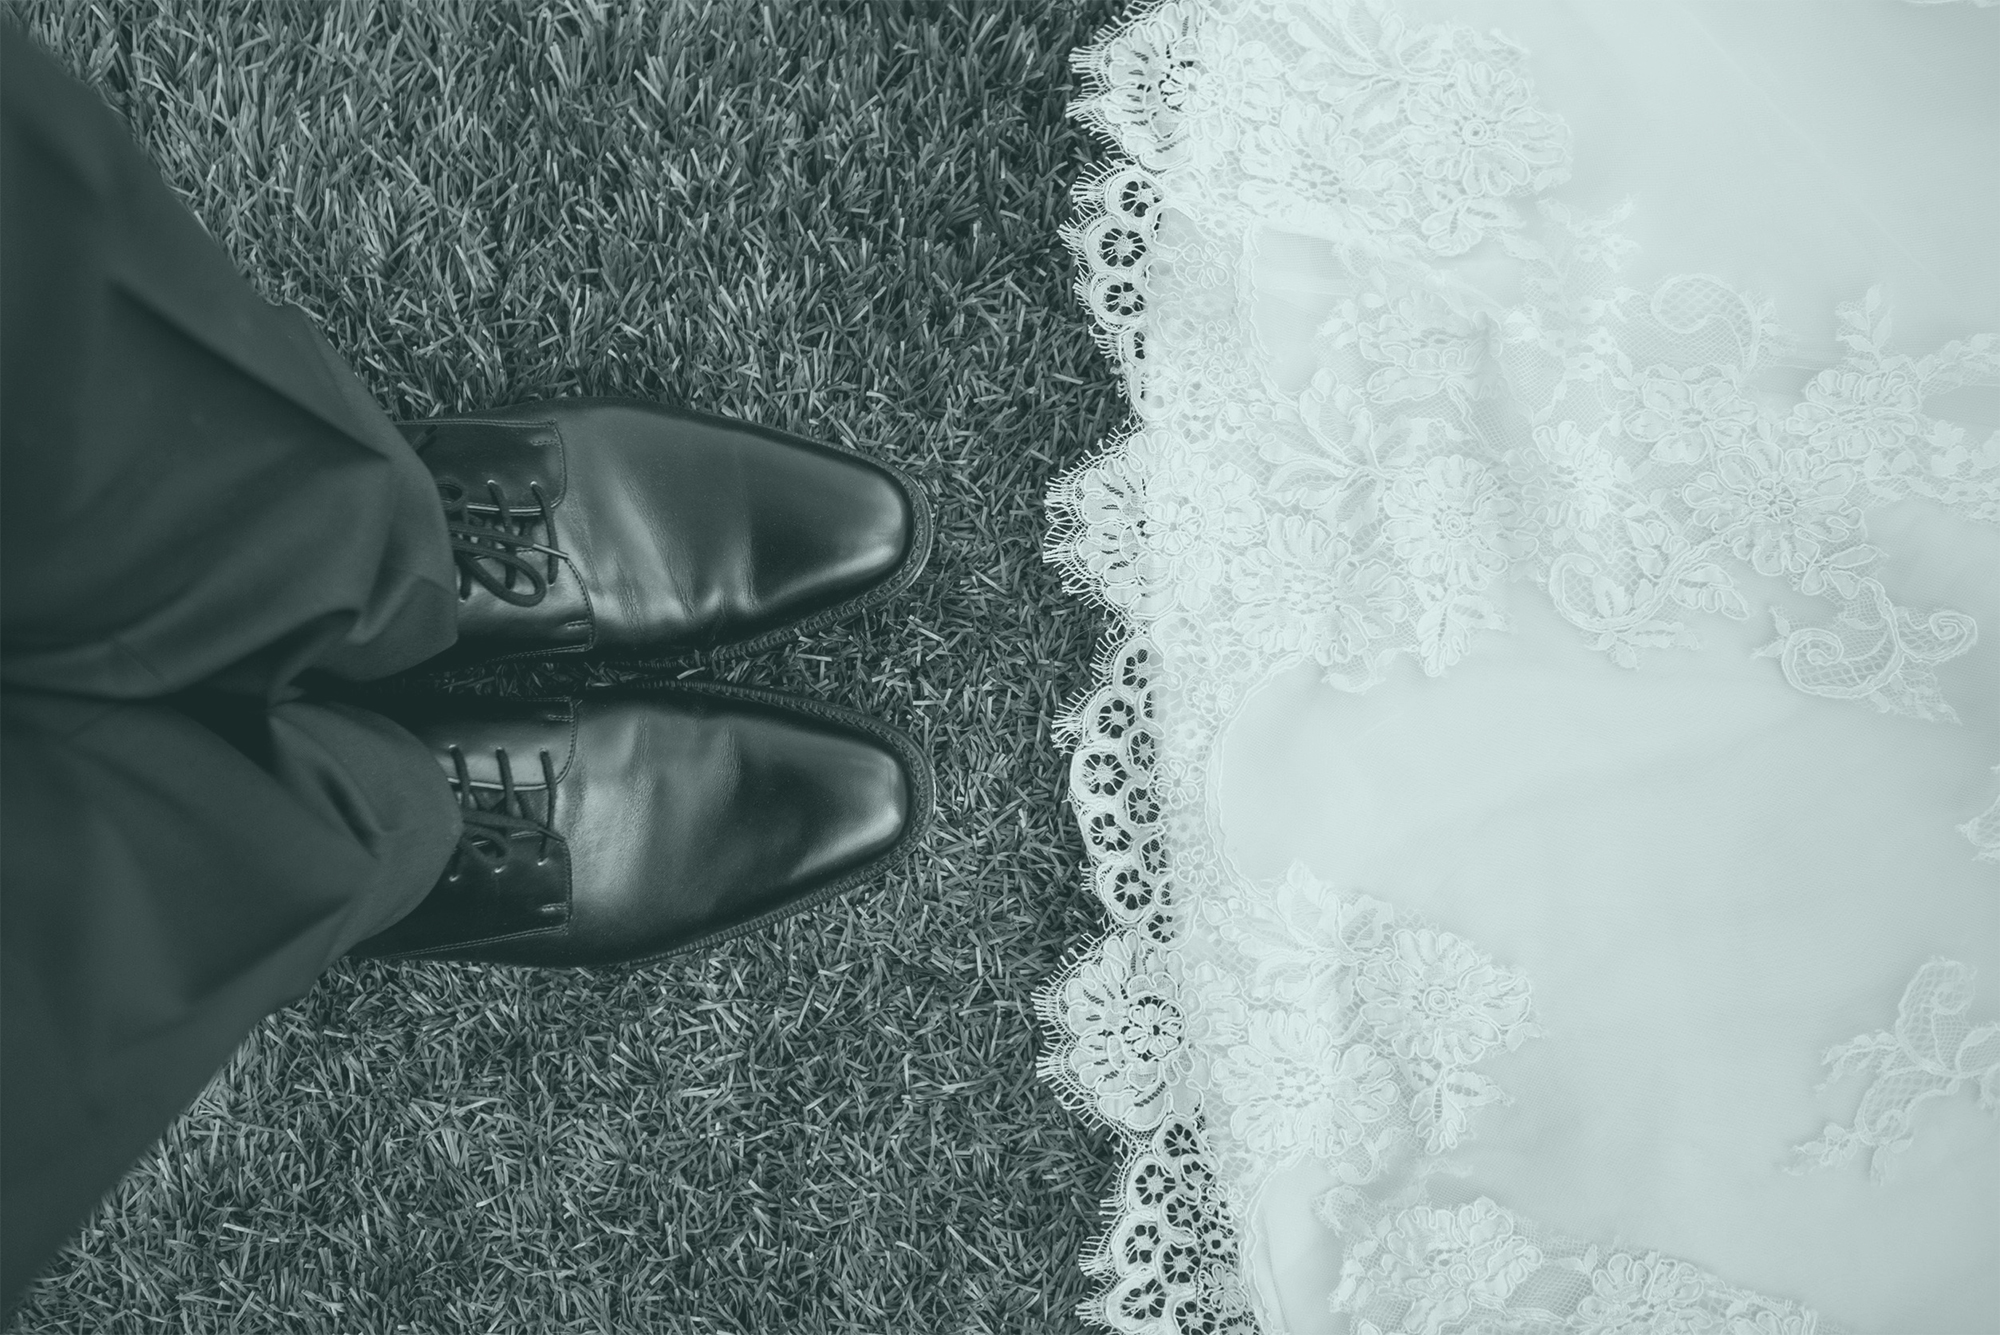
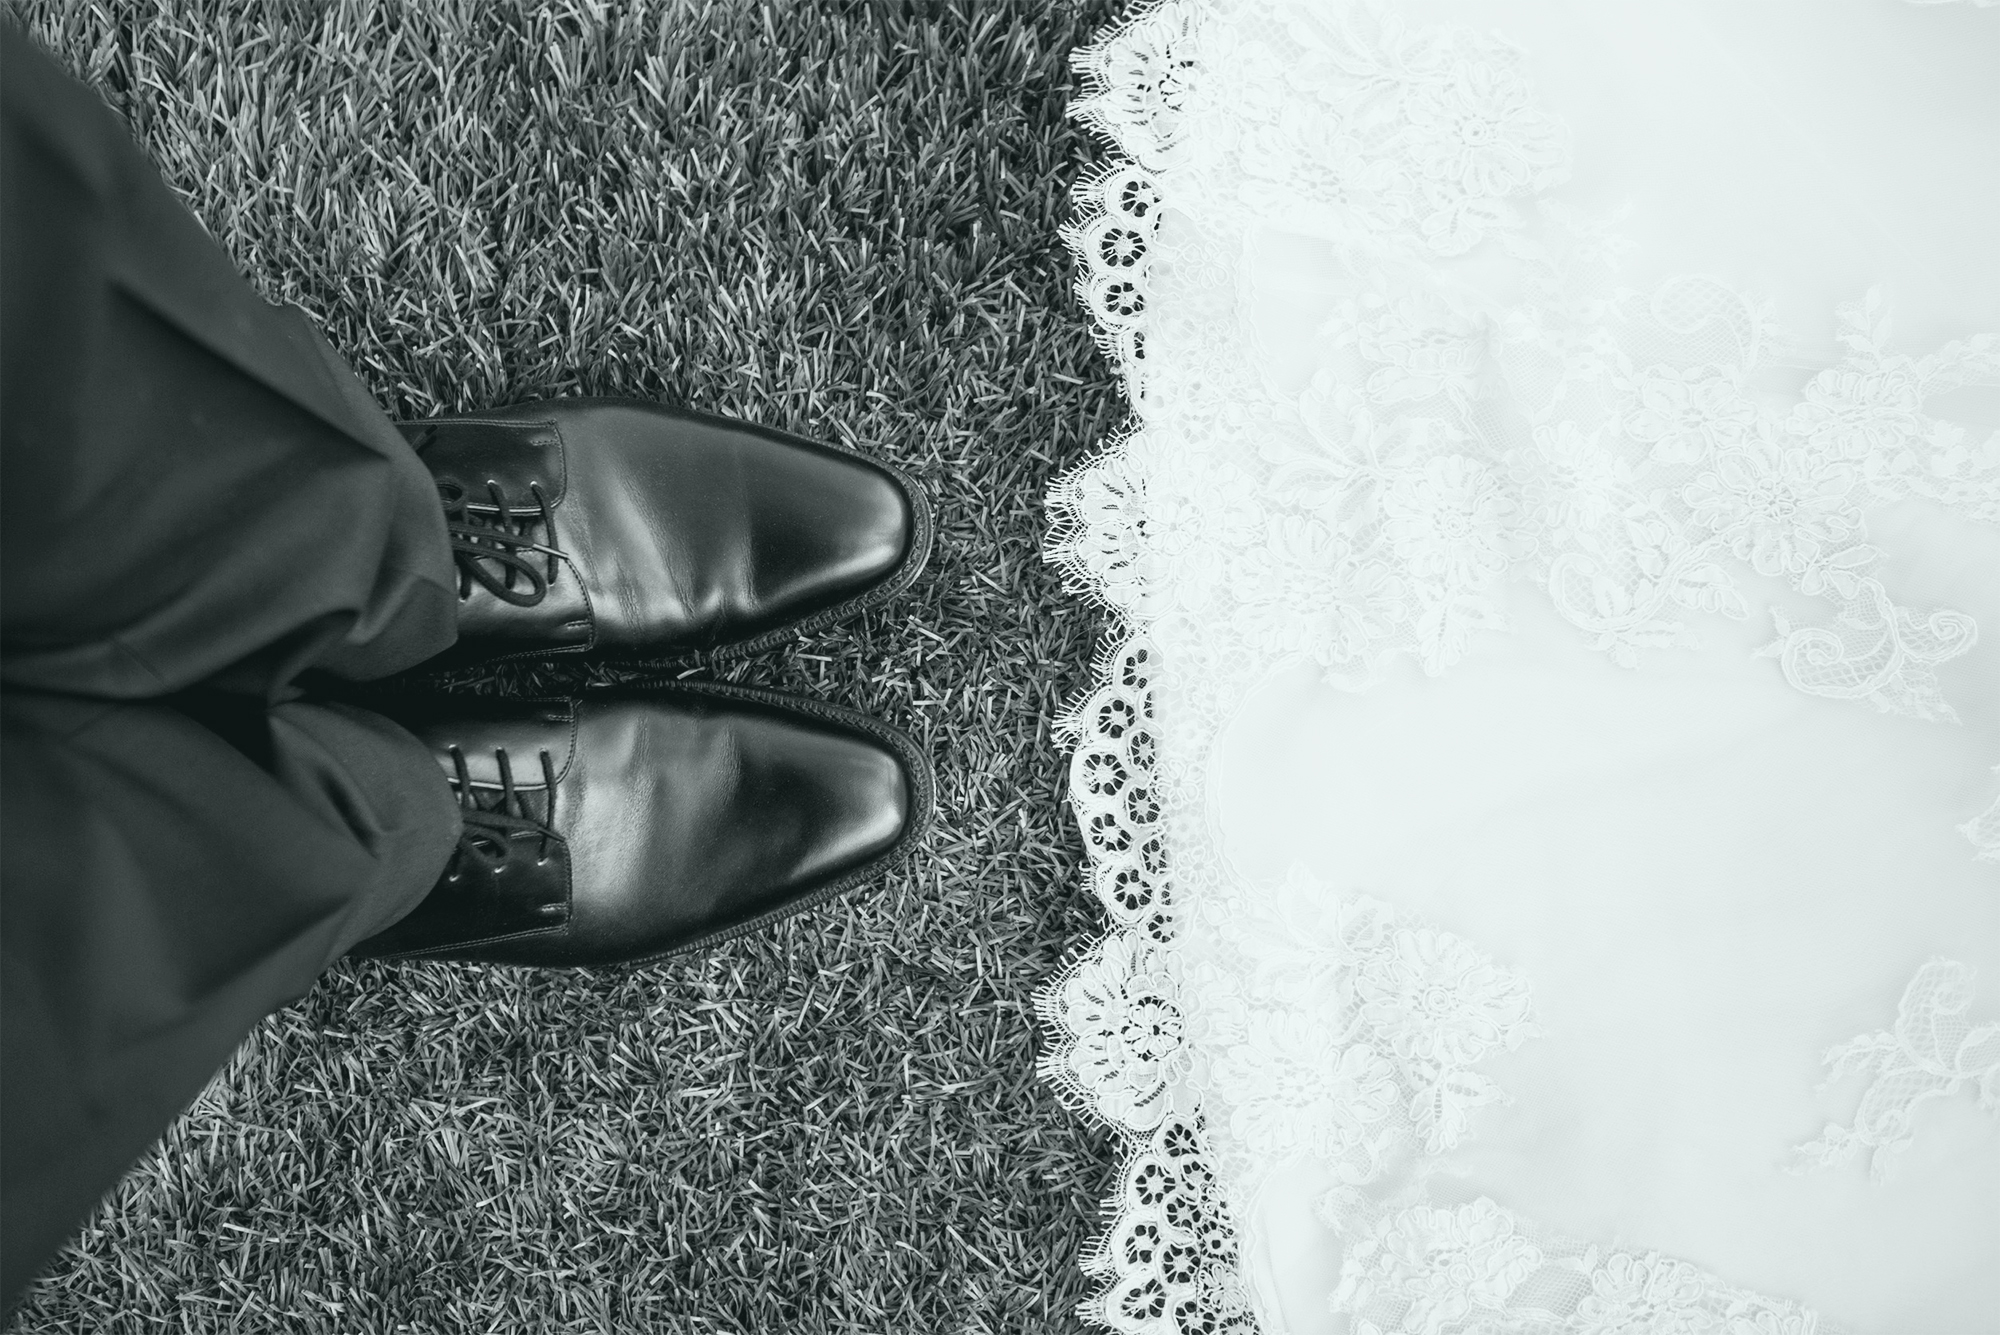
Added a white border around intro messages

diff --git a/index.html b/index.html
@@ -44,22 +44,22 @@
 <main id="main" role="main">
 	<div class="banner-img">
 		<div class="grid grid-stretch">
-			<div class="unit xs-1 s-1-2 m-2-3 l-2-3">
-				<div>
-					<h1 class="tagline"><b>Organize your wedding <i>beautifully.</i></b></h1>
-					<h3 class="pitch">Your all-in-one planner, organizer, and registry.<br>Create your dream wedding without the stress.</h3>
+			<div class="unit xs-1 s-1 m-1 l-1">
+				<div class="billboard text-center">
+					<h1 class="tagline gutter"><b>Organize your wedding <i>beautifully.</i></b></h1>
+					<h3 class="pitch gutter">Your all-in-one planner, organizer, and registry.<br>Create your dream wedding without the stress.</h3>
 				</div>
 			</div>
 		</div>
 	</div>
 
 	<div class="grid grid-stretch">
-		<div class="unit xs-1 s-1 m-1 l-1-2 pad-t pad-bottom text-center unit-content-distribute gutter bg2">
-				<p class="intro island">At One + One, we understand your big day is important to you—that’s why we offer all the organizational tools you need to make sure it’s nothing less than perfect. <br>Relax, we’ve got this.</p>
+		<div class="bg unit xs-1 s-1 m-1 l-1-2 pad-t pad-bottom text-center unit-content-distribute gutter">
+				<p class="intro island">At One + One, we understand your big day is important to you—that’s why we offer all the organizational tools you need to make sure it’s nothing less than perfect.<br>Relax, we’ve got this.</p>
 				<a href="tour.html" class="content-shrink linkbutton micro"><b>TAKE THE TOUR</b></a>
 		</div>
 
-		<div class="unit xs-1 s-1 m-1 l-1-2 pad-bottom pad-t text-center unit-content-distribute gutter bg">
+		<div class="bg2 unit xs-1 s-1 m-1 l-1-2 pad-bottom pad-t text-center unit-content-distribute gutter">
 				<p class="island intro2">We offer packaging options fitting for every bride, with a variety of exciting features as unique and individual as you are. <br>Your first month is on us.</p>
 				<a href="pricing.html" class="content-shrink linkbutton micro"><b>PRICING</b></a>
 		</div>

diff --git a/css/main.css b/css/main.css
@@ -20,21 +20,26 @@ h3 {
 	font-weight: normal;
 }
 
+.billboard {
+	background: rgba(59, 163, 157, 0.65);
+	margin-top: 6em;
+	margin-left: 3em;
+	margin-right: 3em;
+}
+
+.tagline {
+	padding-top: 1em;
+	font-size: 1.8rem;
+}
+
 .pitch {
 	padding-bottom: 1.5em;
 	font-size: 1.2em;
-	padding-left: 3em
 }
 
 .pitcht {
 	padding-bottom: .75em;
 	font-size: 1.2em;
-}
-
-.tagline {
-	padding-top: 3em;
-	font-size: 1.8rem;
-	padding-left: 1.8em
 }
 
 fieldset {
@@ -54,8 +59,8 @@ input+label {
 }
 
 .banner-img {
-	background-image: url("../images/brideandgroom2.jpg");
-	min-height: 500px;
+	background-image: url("../images/brideandgroom.jpg");
+	min-height: 420px;
 	background-repeat: no-repeat;
 	background-position: center center;
 }
@@ -101,11 +106,21 @@ input+label {
 }
 
 .bg {
-	background-color: #83a4a5;
+	background-color: #98b6b7;
+	border-style: solid;
+	border-color: #fff;
+	border-top-width: 15px;
+	border-left-width: 15px;
+	border-right-width: 8px;
 }
 
 .bg2 {
-	background-color: #98b6b7;
+	background-color: #83a4a5;
+	border-style: solid;
+	border-color: #fff;
+	border-top-width: 15px;
+	border-right-width: 15px;
+	border-left-width: 8px;
 }
 
 .intro {
